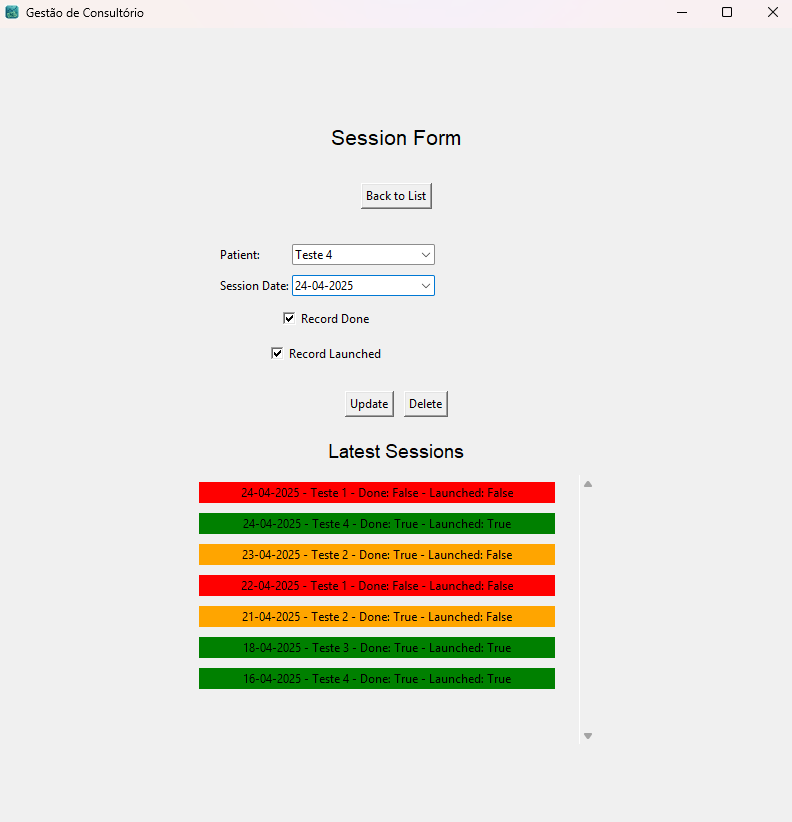
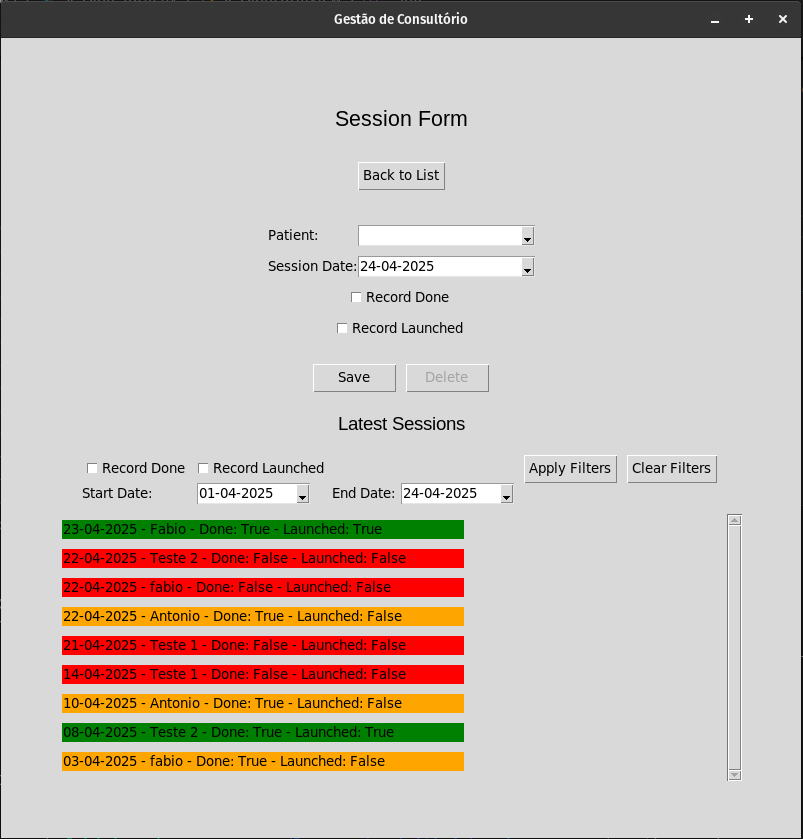
Enhance SessionFormView with filter functionality and improved layout

diff --git a/views/session_form.py b/views/session_form.py
@@ -16,6 +16,7 @@ class SessionFormView(ttk.Frame):
 
         # Title label
         title_label = ttk.Label(self, text="Session Form", font=("Arial", 16))
+        # Center align all widgets
         title_label.pack(pady=10, anchor="center")
 
         # Back button
@@ -26,7 +27,7 @@ class SessionFormView(ttk.Frame):
 
         # Form fields frame
         self.form_frame = ttk.Frame(self)
-        self.form_frame.pack(pady=10, padx=20, fill="x")
+        self.form_frame.pack(pady=10, padx=20, anchor="center")
 
         # Patient selection
         ttk.Label(self.form_frame, text="Patient:").grid(row=0, column=0, sticky="w")
@@ -81,6 +82,69 @@ class SessionFormView(ttk.Frame):
             pady=10, anchor="center"
         )
 
+        # Filters frame
+        self.filters_frame = ttk.Frame(self)
+        self.filters_frame.pack(pady=10, padx=20, fill="x", anchor="center")
+
+        # Record done filter
+        self.filter_record_done_var = tk.BooleanVar()
+        ttk.Checkbutton(
+            self.filters_frame, text="Record Done", variable=self.filter_record_done_var
+        ).grid(row=0, column=0, padx=5, sticky="w")
+
+        # Record launched filter
+        self.filter_record_launched_var = tk.BooleanVar()
+        ttk.Checkbutton(
+            self.filters_frame,
+            text="Record Launched",
+            variable=self.filter_record_launched_var,
+        ).grid(row=0, column=1, padx=5, sticky="w")
+
+        # Apply filters button
+        apply_filters_button = ttk.Button(
+            self.filters_frame, text="Apply Filters", command=self.apply_filters
+        )
+        apply_filters_button.grid(row=0, column=4, padx=5, sticky="w")
+
+        # Clear filters button
+        clear_filters_button = ttk.Button(
+            self.filters_frame, text="Clear Filters", command=self.clear_filters
+        )
+        clear_filters_button.grid(row=0, column=5, padx=5, sticky="w")
+
+        # Date range filters
+        ttk.Label(self.filters_frame, text="Start Date:").grid(
+            row=1, column=0, sticky="w"
+        )
+        self.filter_start_date_entry = DateEntry(
+            self.filters_frame,
+            width=12,
+            background="darkblue",
+            foreground="white",
+            borderwidth=2,
+            date_pattern="dd-mm-yyyy",
+        )
+        self.filter_start_date_entry.set_date(
+            datetime(datetime.now().year, datetime.now().month, 1)
+        )
+        self.filter_start_date_entry.grid(row=1, column=1, padx=5, sticky="w")
+
+        ttk.Label(self.filters_frame, text="End Date:").grid(
+            row=1, column=2, sticky="w"
+        )
+        self.filter_end_date_entry = DateEntry(
+            self.filters_frame,
+            width=12,
+            background="darkblue",
+            foreground="white",
+            borderwidth=2,
+            date_pattern="dd-mm-yyyy",
+        )
+        self.filter_end_date_entry.set_date(datetime.now())
+        self.filter_end_date_entry.grid(row=1, column=3, padx=5, sticky="w")
+
+        self.filter_applied = False
+
         # Create a canvas for scrolling
         self.canvas = tk.Canvas(self)
         self.scrollbar = ttk.Scrollbar(
@@ -97,8 +161,10 @@ class SessionFormView(ttk.Frame):
         self.canvas.configure(yscrollcommand=self.scrollbar.set)
 
         # Pack the canvas and scrollbar
-        self.canvas.pack(side=tk.LEFT, fill=tk.BOTH, expand=True)
-        self.scrollbar.pack(side=tk.RIGHT, fill=tk.Y)
+        self.canvas.pack(side=tk.LEFT, fill=tk.BOTH, expand=True, anchor="center")
+        self.scrollbar.pack(side=tk.RIGHT, fill=tk.Y, anchor="center")
+
+        self.clear_filters()
 
         self.update_sessions_list()
 
@@ -243,12 +309,30 @@ class SessionFormView(ttk.Frame):
             widget.destroy()
 
         with session_scope() as session:
-            appointments = (
-                session.query(Appointment)
-                .order_by(Appointment.date.desc())
-                .limit(10)
-                .all()
-            )
+            query = session.query(Appointment)
+
+            if self.filter_applied:
+                if self.filter_record_done_var.get():
+                    query = query.filter(Appointment.record_done)
+                if self.filter_record_launched_var.get():
+                    query = query.filter(Appointment.record_launched)
+
+                start_date = self.filter_start_date_entry.get()
+                end_date = self.filter_end_date_entry.get()
+                if start_date and end_date:
+                    try:
+                        start_date = datetime.strptime(start_date, "%d-%m-%Y").date()
+                        end_date = datetime.strptime(end_date, "%d-%m-%Y").date()
+                        query = query.filter(
+                            Appointment.date.between(start_date, end_date)
+                        )
+                    except ValueError:
+                        messagebox.showerror(
+                            "Error", "Invalid date format. Use dd-mm-yyyy."
+                        )
+                        return
+
+            appointments = query.order_by(Appointment.date.desc()).limit(15).all()
 
             style = ttk.Style()
             style.configure("Red.TLabel", background="red")
@@ -271,7 +355,7 @@ class SessionFormView(ttk.Frame):
                     style_name = "Green.TLabel"
 
                 label = ttk.Label(
-                    self.scrollable_frame, text=session_info, width=50, style=style_name
+                    self.scrollable_frame, text=session_info, style=style_name, anchor="center"
                 )
 
                 label.bind(
@@ -282,7 +366,7 @@ class SessionFormView(ttk.Frame):
                     ),
                 )
 
-                label.pack(pady=5)
+                label.pack(pady=5, padx=150, anchor="center")
 
     def clear_form(self):
         """Clear the form fields and reset to default state"""
@@ -294,3 +378,12 @@ class SessionFormView(ttk.Frame):
         self.record_launched_var.set(False)
         self.delete_button.config(state=tk.DISABLED)
         self.save_button.config(text="Save")
+
+    def clear_filters(self):
+        """Clear all filters and reset the session list to show the latest appointments."""
+        self.filter_applied = False
+        self.update_sessions_list()
+
+    def apply_filters(self):
+        self.filter_applied = True
+        self.update_sessions_list()
